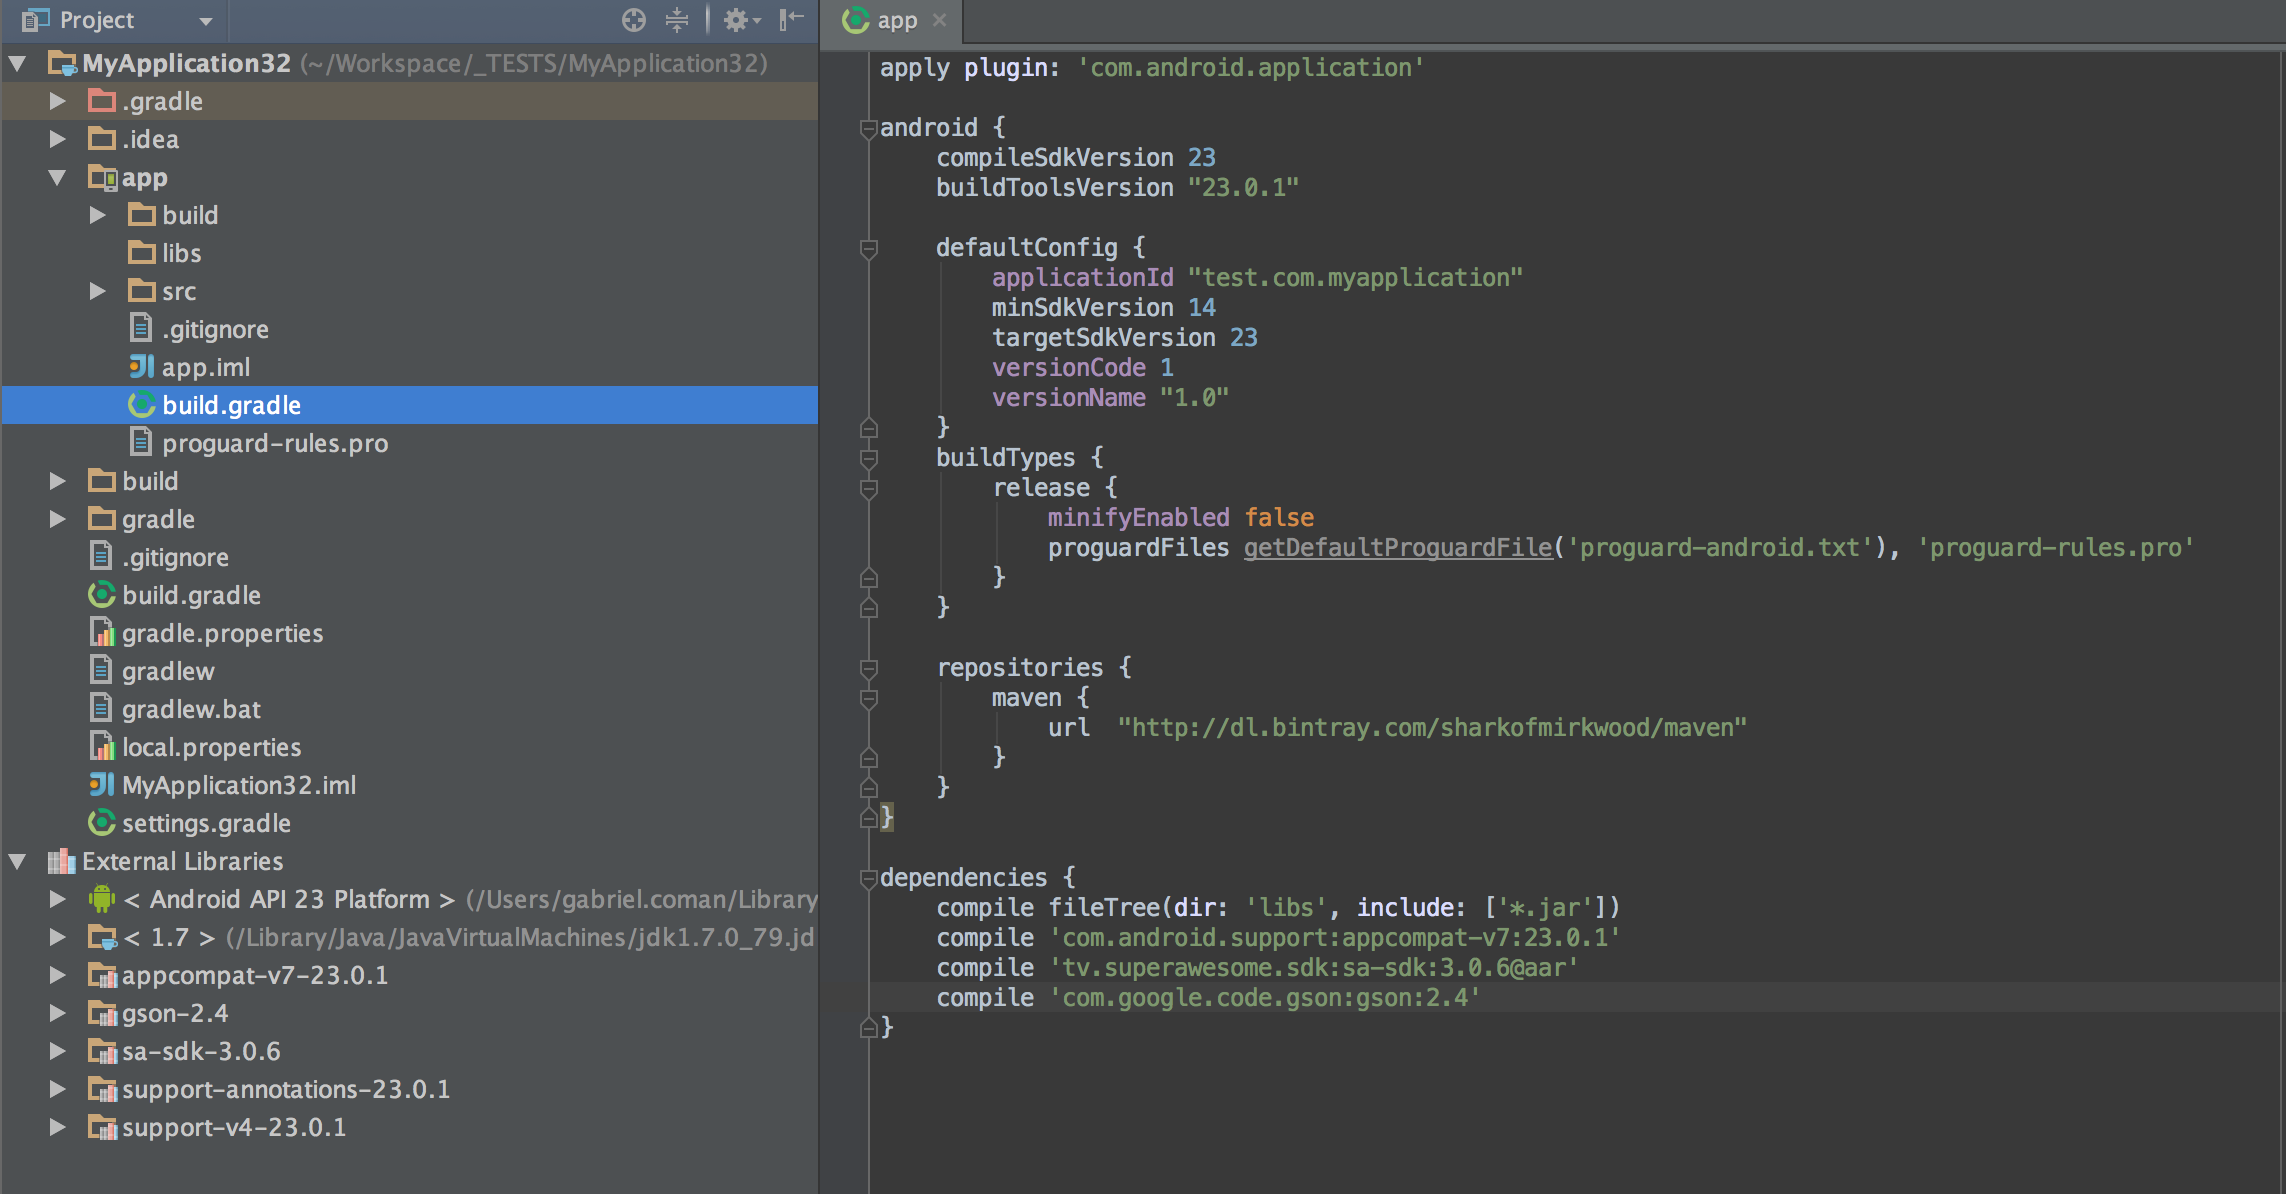
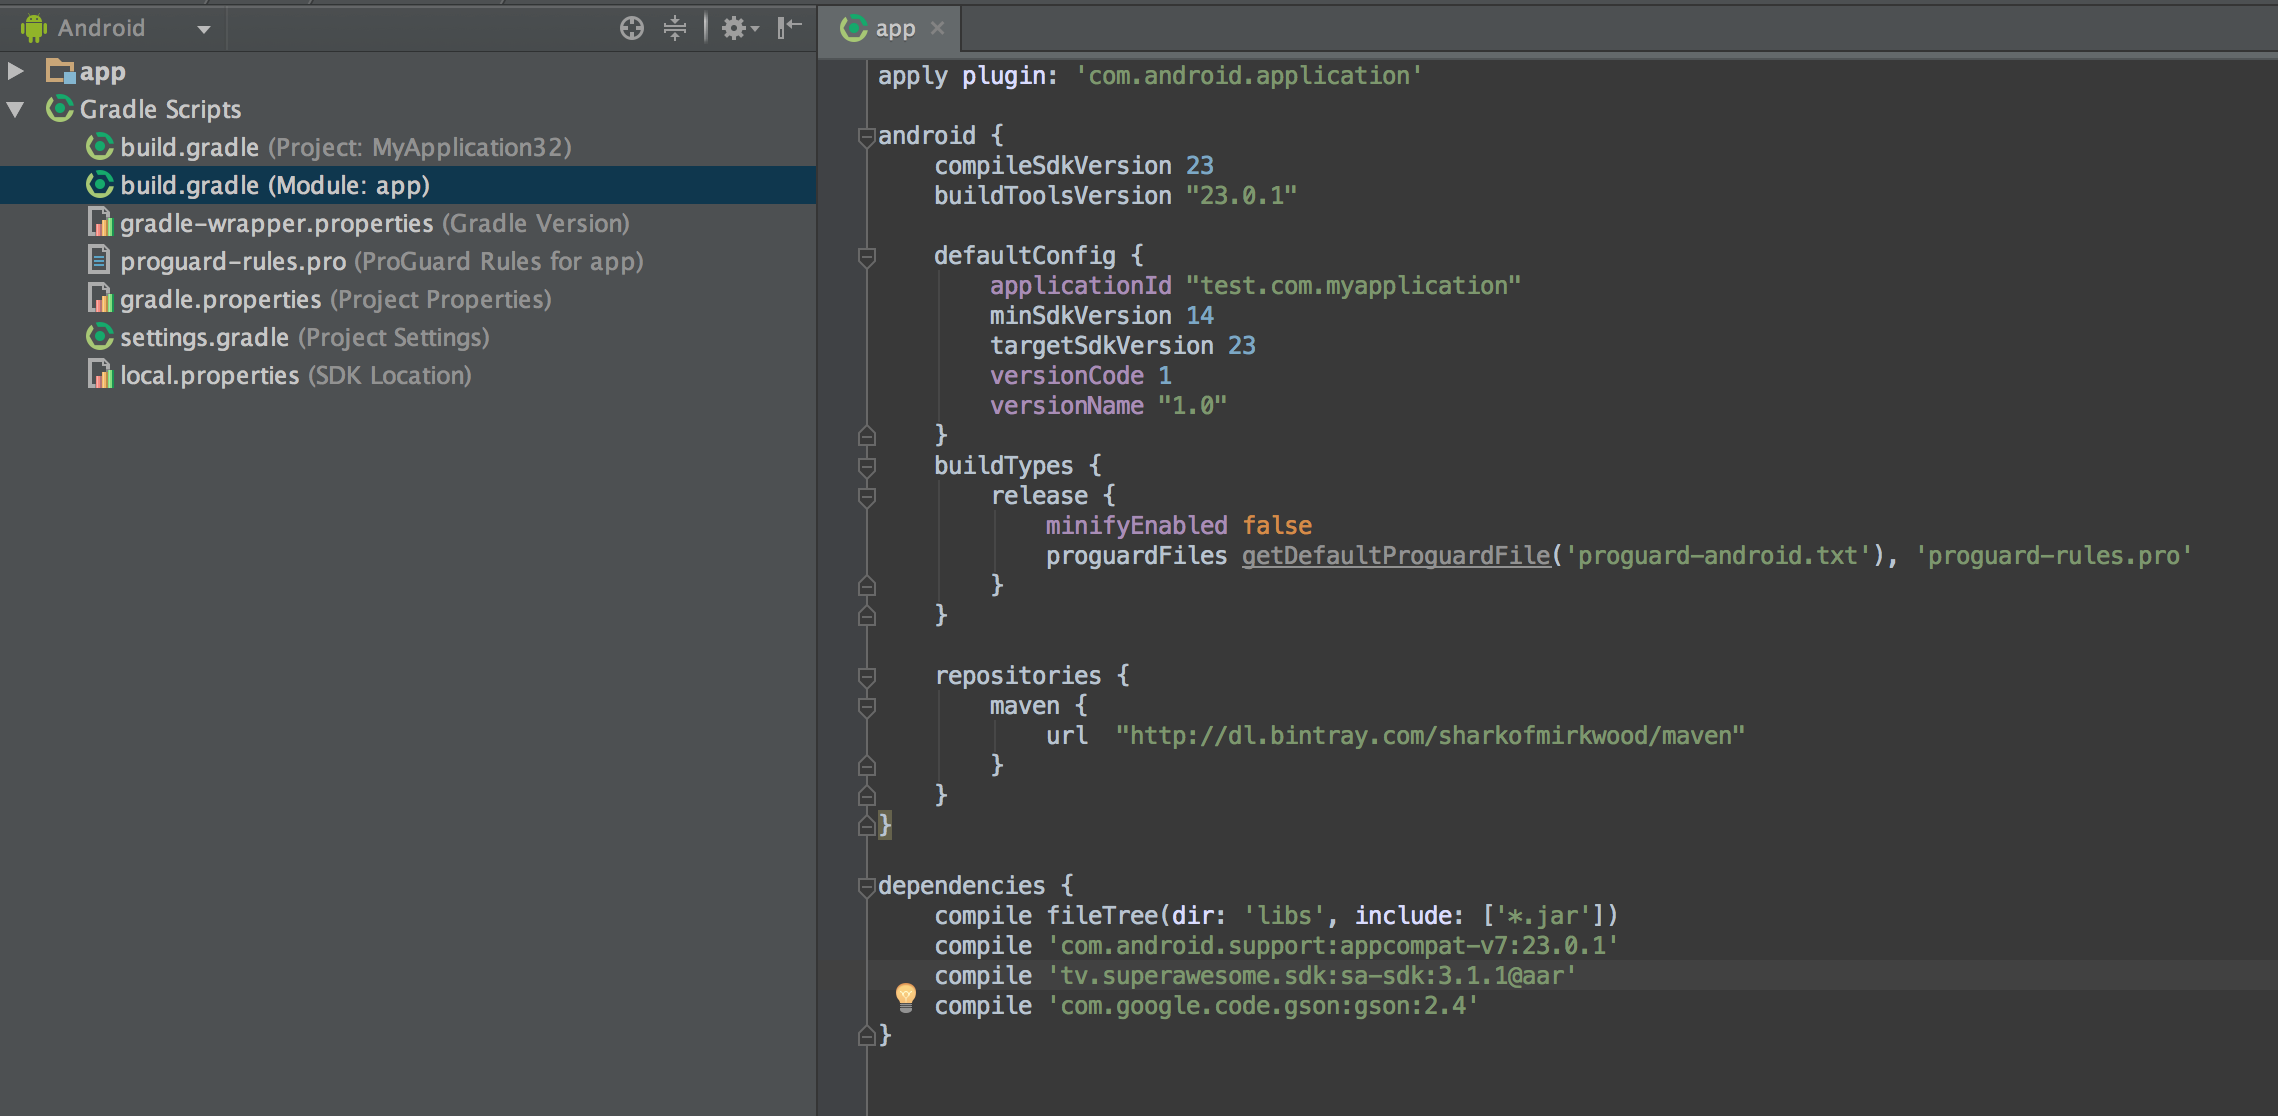
Updated documentation

Changed region(s): [[0.0, 0.0, 1.0, 1.0], [0.374, 0.5484, 0.7792, 0.6703]]

diff --git a/superawesomesdk/sa-sdk/mopub/SuperAwesomeBannerCustomEvent.java b/superawesomesdk/sa-sdk/mopub/SuperAwesomeBannerCustomEvent.java
@@ -1,0 +1,145 @@
+package com.mopub.mobileads;
+
+import android.content.Context;
+
+import java.util.Map;
+
+import tv.superawesome.sdk.SuperAwesome;
+import tv.superawesome.sdk.data.Loader.SALoader;
+import tv.superawesome.sdk.data.Loader.SALoaderListener;
+import tv.superawesome.sdk.data.Models.SAAd;
+import tv.superawesome.sdk.listeners.SAAdListener;
+import tv.superawesome.sdk.listeners.SAParentalGateListener;
+import tv.superawesome.sdk.views.SABannerAd;
+
+
+/**
+ * Created by gabriel.coman on 27/10/15.
+ */
+public class SuperAwesomeBannerCustomEvent extends CustomEventBanner implements SAAdListener, SAParentalGateListener{
+
+    /** listeners */
+    private SAAdListener adListener = this;
+    private SAParentalGateListener parentalGateListener = this;
+    private CustomEventBannerListener evtListener = null;
+
+    /** ref to bannerAd */
+    private SABannerAd bannerAd;
+
+    @Override
+    protected void loadBanner(final Context context, CustomEventBannerListener customEventBannerListener, Map<String, Object> map, Map<String, String> map1) {
+
+        /** get the listener */
+        evtListener = customEventBannerListener;
+
+        /** get map variables */
+        int placementId = 0;
+        final boolean testMode;
+        final boolean isParentalGateEnabled;
+
+        if (map1.get("placementId") != null ){
+            placementId = Integer.parseInt((String)map1.get("placementId").toString());
+        }
+
+        if (map1.get("testMode") != null) {
+            testMode = Boolean.valueOf(map1.get("testMode"));
+        } else {
+            testMode = true;
+        }
+
+        if (map1.get("parentalGateEnabled") != null){
+            isParentalGateEnabled = Boolean.valueOf(map1.get("parentalGateEnabled"));
+        } else {
+            isParentalGateEnabled = false;
+        }
+
+        /** before loading */
+        SuperAwesome.getInstance().setConfigurationProduction();
+        if (testMode) {
+            SuperAwesome.getInstance().enableTestMode();
+        } else {
+            SuperAwesome.getInstance().disableTestMode();
+        }
+
+        /** start loading */
+        SALoader.loadAd(placementId, new SALoaderListener() {
+            @Override
+            public void didLoadAd(SAAd saAd) {
+
+                /** create the new banner ad */
+                bannerAd = new SABannerAd(context);
+                bannerAd.setAd(saAd);
+                bannerAd.setIsParentalGateEnabled(isParentalGateEnabled);
+                bannerAd.setAdListener(adListener);
+                bannerAd.setParentalGateListener(parentalGateListener);
+
+                /** call play */
+                bannerAd.play();
+
+                /** call evt listener */
+                if (evtListener != null) {
+                    evtListener.onBannerLoaded(bannerAd);
+                }
+            }
+
+            @Override
+            public void didFailToLoadAdForPlacementId(int i) {
+                /** call to event listener */
+                if (evtListener != null) {
+                    evtListener.onBannerFailed(MoPubErrorCode.MRAID_LOAD_ERROR);
+                }
+            }
+        });
+    }
+
+    @Override
+    protected void onInvalidate() {
+        /** n/a */
+    }
+
+    @Override
+    public void adWasShown(int i) {
+
+    }
+
+    @Override
+    public void adFailedToShow(int i) {
+        if (evtListener != null){
+            evtListener.onBannerFailed(MoPubErrorCode.MRAID_LOAD_ERROR);
+        }
+    }
+
+    @Override
+    public void adWasClosed(int i) {
+
+    }
+
+    @Override
+    public void adWasClicked(int i) {
+        if (evtListener != null) {
+            evtListener.onBannerClicked();
+        }
+    }
+
+    @Override
+    public void adHasIncorrectPlacement(int i) {
+        if (evtListener != null) {
+            evtListener.onBannerFailed(MoPubErrorCode.MRAID_LOAD_ERROR);
+        }
+    }
+
+    @Override
+    public void parentalGateWasCanceled(int i) {
+
+    }
+
+    @Override
+    public void parentalGateWasFailed(int i) {
+
+    }
+
+    @Override
+    public void parentalGateWasSucceded(int i) {
+
+    }
+}

diff --git a/superawesomesdk/sa-sdk/mopub/SuperAwesomeInterstitialCustomEvent.java b/superawesomesdk/sa-sdk/mopub/SuperAwesomeInterstitialCustomEvent.java
@@ -1,0 +1,139 @@
+package com.mopub.mobileads;
+
+import android.content.Context;
+
+import java.util.Map;
+
+import tv.superawesome.sdk.SuperAwesome;
+import tv.superawesome.sdk.data.Loader.SALoader;
+import tv.superawesome.sdk.data.Loader.SALoaderListener;
+import tv.superawesome.sdk.data.Models.SAAd;
+import tv.superawesome.sdk.listeners.SAAdListener;
+import tv.superawesome.sdk.listeners.SAParentalGateListener;
+import tv.superawesome.sdk.views.SAInterstitialActivity;
+
+/**
+ * Created by gabriel.coman on 27/10/15.
+ */
+public class SuperAwesomeInterstitialCustomEvent extends CustomEventInterstitial implements SAAdListener, SAParentalGateListener {
+
+    private SAAdListener adListener = this;
+    private SAParentalGateListener parentalGateListener = this;
+    private CustomEventInterstitialListener evtListener;
+
+    @Override
+    protected void loadInterstitial(final Context context, final CustomEventInterstitialListener customEventInterstitialListener, Map<String, Object> map, Map<String, String> map1) {
+
+        // get map variables
+        int placementId = 0;
+        final boolean testMode;
+        final boolean isParentalGateEnabled;
+
+        if (map1.get("placementId") != null ){
+            placementId = Integer.parseInt((String)map1.get("placementId").toString());
+        }
+
+        if (map1.get("testMode") != null) {
+            testMode = Boolean.valueOf(map1.get("testMode"));
+        } else {
+            testMode = true;
+        }
+
+        if (map1.get("parentalGateEnabled") != null){
+            isParentalGateEnabled = Boolean.valueOf(map1.get("parentalGateEnabled"));
+        } else {
+            isParentalGateEnabled = false;
+        }
+
+        /** before loading */
+        SuperAwesome.getInstance().setConfigurationProduction();
+        if (testMode) {
+            SuperAwesome.getInstance().enableTestMode();
+        } else {
+            SuperAwesome.getInstance().disableTestMode();
+        }
+
+        // save evt listener
+        evtListener = customEventInterstitialListener;
+
+        SALoader.loadAd(placementId, new SALoaderListener() {
+            @Override
+            public void didLoadAd(SAAd saAd) {
+                SAInterstitialActivity.start(context, saAd, isParentalGateEnabled, adListener, parentalGateListener);
+                if (evtListener != null) {
+                    evtListener.onInterstitialLoaded();
+                }
+            }
+
+            @Override
+            public void didFailToLoadAdForPlacementId(int i) {
+                if (evtListener != null) {
+                    evtListener.onInterstitialFailed(MoPubErrorCode.MRAID_LOAD_ERROR);
+                }
+            }
+        });
+    }
+
+    @Override
+    protected void showInterstitial() {
+
+        if (evtListener != null) {
+            evtListener.onInterstitialShown();
+        }
+    }
+
+    @Override
+    protected void onInvalidate() {
+        // do nothing
+    }
+
+    @Override
+    public void adWasShown(int i) {
+        if (evtListener != null) {
+            evtListener.onInterstitialShown();
+        }
+    }
+
+    @Override
+    public void adFailedToShow(int i) {
+        if (evtListener != null){
+            evtListener.onInterstitialFailed(MoPubErrorCode.MRAID_LOAD_ERROR);
+        }
+    }
+
+    @Override
+    public void adWasClosed(int i) {
+        if (evtListener != null){
+            evtListener.onInterstitialDismissed();
+        }
+    }
+
+    @Override
+    public void adWasClicked(int i) {
+        if (evtListener != null) {
+            evtListener.onInterstitialClicked();
+        }
+    }
+
+    @Override
+    public void adHasIncorrectPlacement(int i) {
+        if (evtListener != null){
+            evtListener.onInterstitialFailed(MoPubErrorCode.MRAID_LOAD_ERROR);
+        }
+    }
+
+    @Override
+    public void parentalGateWasCanceled(int i) {
+
+    }
+
+    @Override
+    public void parentalGateWasFailed(int i) {
+
+    }
+
+    @Override
+    public void parentalGateWasSucceded(int i) {
+
+    }
+}

diff --git a/docs/05 MoPub Integration.md b/docs/05 MoPub Integration.md
@@ -8,12 +8,14 @@ This will add the SDK to your current project.
 
 #### Download Adapters
 
-Next, you'll need to download a files called Adapter:
+Next, you'll need to download three .java files called Adapters:
 
+  * [SuperAwesomeBannerCustomEvent.java](https://raw.githubusercontent.com/SuperAwesomeLTD/sa-mobile-sdk-android/develop_v3/superawesomesdk/sa-sdk/mopub/SuperAwesomeBannerCustomEvent.java)
+  * [SuperAwesomeInterstitialCustomEvent.java](https://raw.githubusercontent.com/SuperAwesomeLTD/sa-mobile-sdk-android/develop_v3/superawesomesdk/sa-sdk/mopub/SuperAwesomeInterstitialCustomEvent.java)
   * [SuperAwesomeRewardedVideoCustomEvent.java](https://raw.githubusercontent.com/SuperAwesomeLTD/sa-mobile-sdk-android/develop_v3/superawesomesdk/sa-sdk/mopub/SuperAwesomeRewardedVideoCustomEvent.java)
 
 These will act as a convenient bridge between SuperAwesome and MoPub, so that you don't have to write any aditional line of code.
-You'll also need to place them in your project. To do this, in your `/app/src/main/java/com` folder, create a folder called `mopub` and inside it another one called `mobileads`. Here copy the file.
+You'll also need to place them in your project. To do this, in your `/app/src/main/java/com` folder, create a folder called `mopub` and inside it another one called `mobileads`. Here copy the files.
 
 #### Setup a MoPub Custom Network
 
@@ -31,12 +33,15 @@ You'll be taken to a new page. Here select the title of the new network
 
 And assign custom inventory details for Banner and Interstitial ads:
 
+![](img/IMG_07_MoPub_5.png "Setup custom inventory")
 ![](img/IMG_07_MoPub_4.png "Setup custom inventory")
 
 Custom Event Class is:
+  * for Banner Ads: `com.mopub.mobileads.SuperAwesomeBannerCustomEvent`
+  * for Interstitial Ads: `com.mopub.mobileads.SuperAwesomeInterstitialCustomEvent`
   * for Rewarded Video Ads: `com.mopub.mobileads.SuperAwesomeRewardedVideoCustomEvent`
 
-Notice these are identical to the name of the file you downloaded in step one.
+Notice these are identical to the name of the files you downloaded in step one.
 
 Custom Event Data is always required, and must be given in the form of  JSON:
 

diff --git a/docs/01 Getting Started/02 SettingUp.md b/docs/01 Getting Started/02 SettingUp.md
@@ -8,7 +8,7 @@ repositories {
 }
 
 dependencies {
-    compile 'tv.superawesome.sdk:sa-sdk:3.0.6@aar'
+    compile 'tv.superawesome.sdk:sa-sdk:3.1.1@aar'
     compile 'com.google.code.gson:gson:2.4'
 }
 ```
